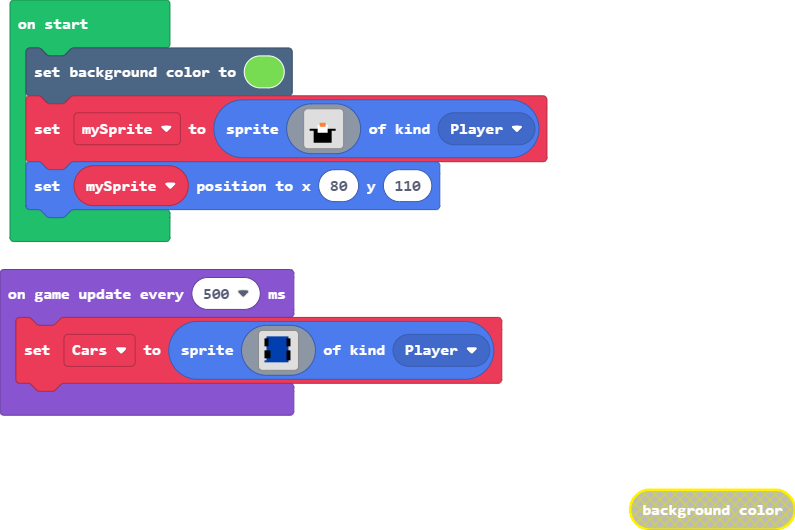
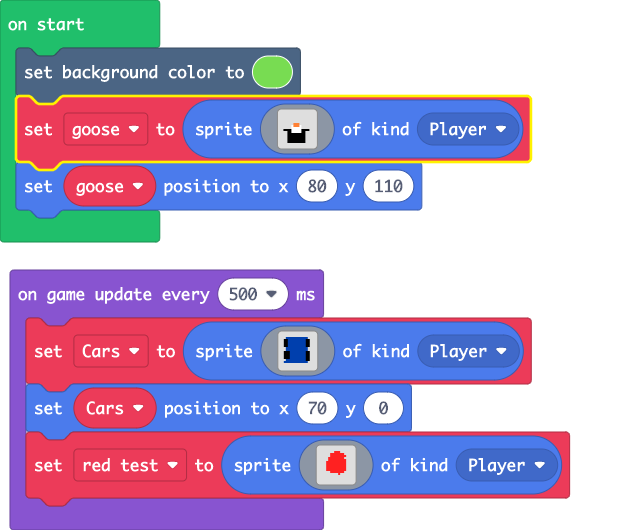
Update main.blocks, main.ts

diff --git a/main.ts b/main.ts
@@ -1,6 +1,7 @@
+let red_test: Sprite = null
 let Cars: Sprite = null
 scene.setBackgroundColor(7)
-let mySprite = sprites.create(img`
+let goose = sprites.create(img`
     . . . . . . . . . . . . . . . . 
     . . . . . . . . . . . . . . . . 
     . . . . . . . . . . . . . . . . 
@@ -18,7 +19,7 @@ let mySprite = sprites.create(img`
     . . . f f f f f f f f f . . . . 
     . . . . . . . . . . . . . . . . 
     `, SpriteKind.Player)
-mySprite.setPosition(80, 110)
+goose.setPosition(80, 110)
 game.onUpdateInterval(500, function () {
     Cars = sprites.create(img`
         . . . . . . . . . . . . . . . . 
@@ -35,6 +36,25 @@ game.onUpdateInterval(500, function () {
         . f f f 8 8 8 8 8 8 8 8 f f . . 
         . . 8 8 8 8 8 8 8 8 8 8 f f . . 
         . 8 8 8 8 8 8 8 8 8 8 8 8 . . . 
+        . . . . . . . . . . . . . . . . 
+        . . . . . . . . . . . . . . . . 
+        `, SpriteKind.Player)
+    Cars.setPosition(70, 0)
+    red_test = sprites.create(img`
+        . . . . . . . . . . . . . . . . 
+        . . . . . . . 2 2 2 . . . . . . 
+        . . . . . 2 2 2 2 2 2 2 . . . . 
+        . . . . . 2 2 2 2 2 2 2 2 . . . 
+        . . . . 2 2 2 2 2 2 2 2 . . . . 
+        . . . . 2 2 2 2 2 2 2 2 2 . . . 
+        . . . 2 2 2 2 2 2 2 2 2 2 . . . 
+        . . . 2 2 2 2 2 2 2 2 2 2 . . . 
+        . . . 2 2 2 2 2 2 2 2 2 2 . . . 
+        . . . 2 2 2 2 2 2 2 2 2 2 . . . 
+        . . . 2 2 2 2 2 2 2 2 2 2 . . . 
+        . . . . . 2 2 2 2 2 2 2 . . . . 
+        . . . . . . . . . 2 . . . . . . 
+        . . . . . . . . . . . . . . . . 
         . . . . . . . . . . . . . . . . 
         . . . . . . . . . . . . . . . . 
         `, SpriteKind.Player)
